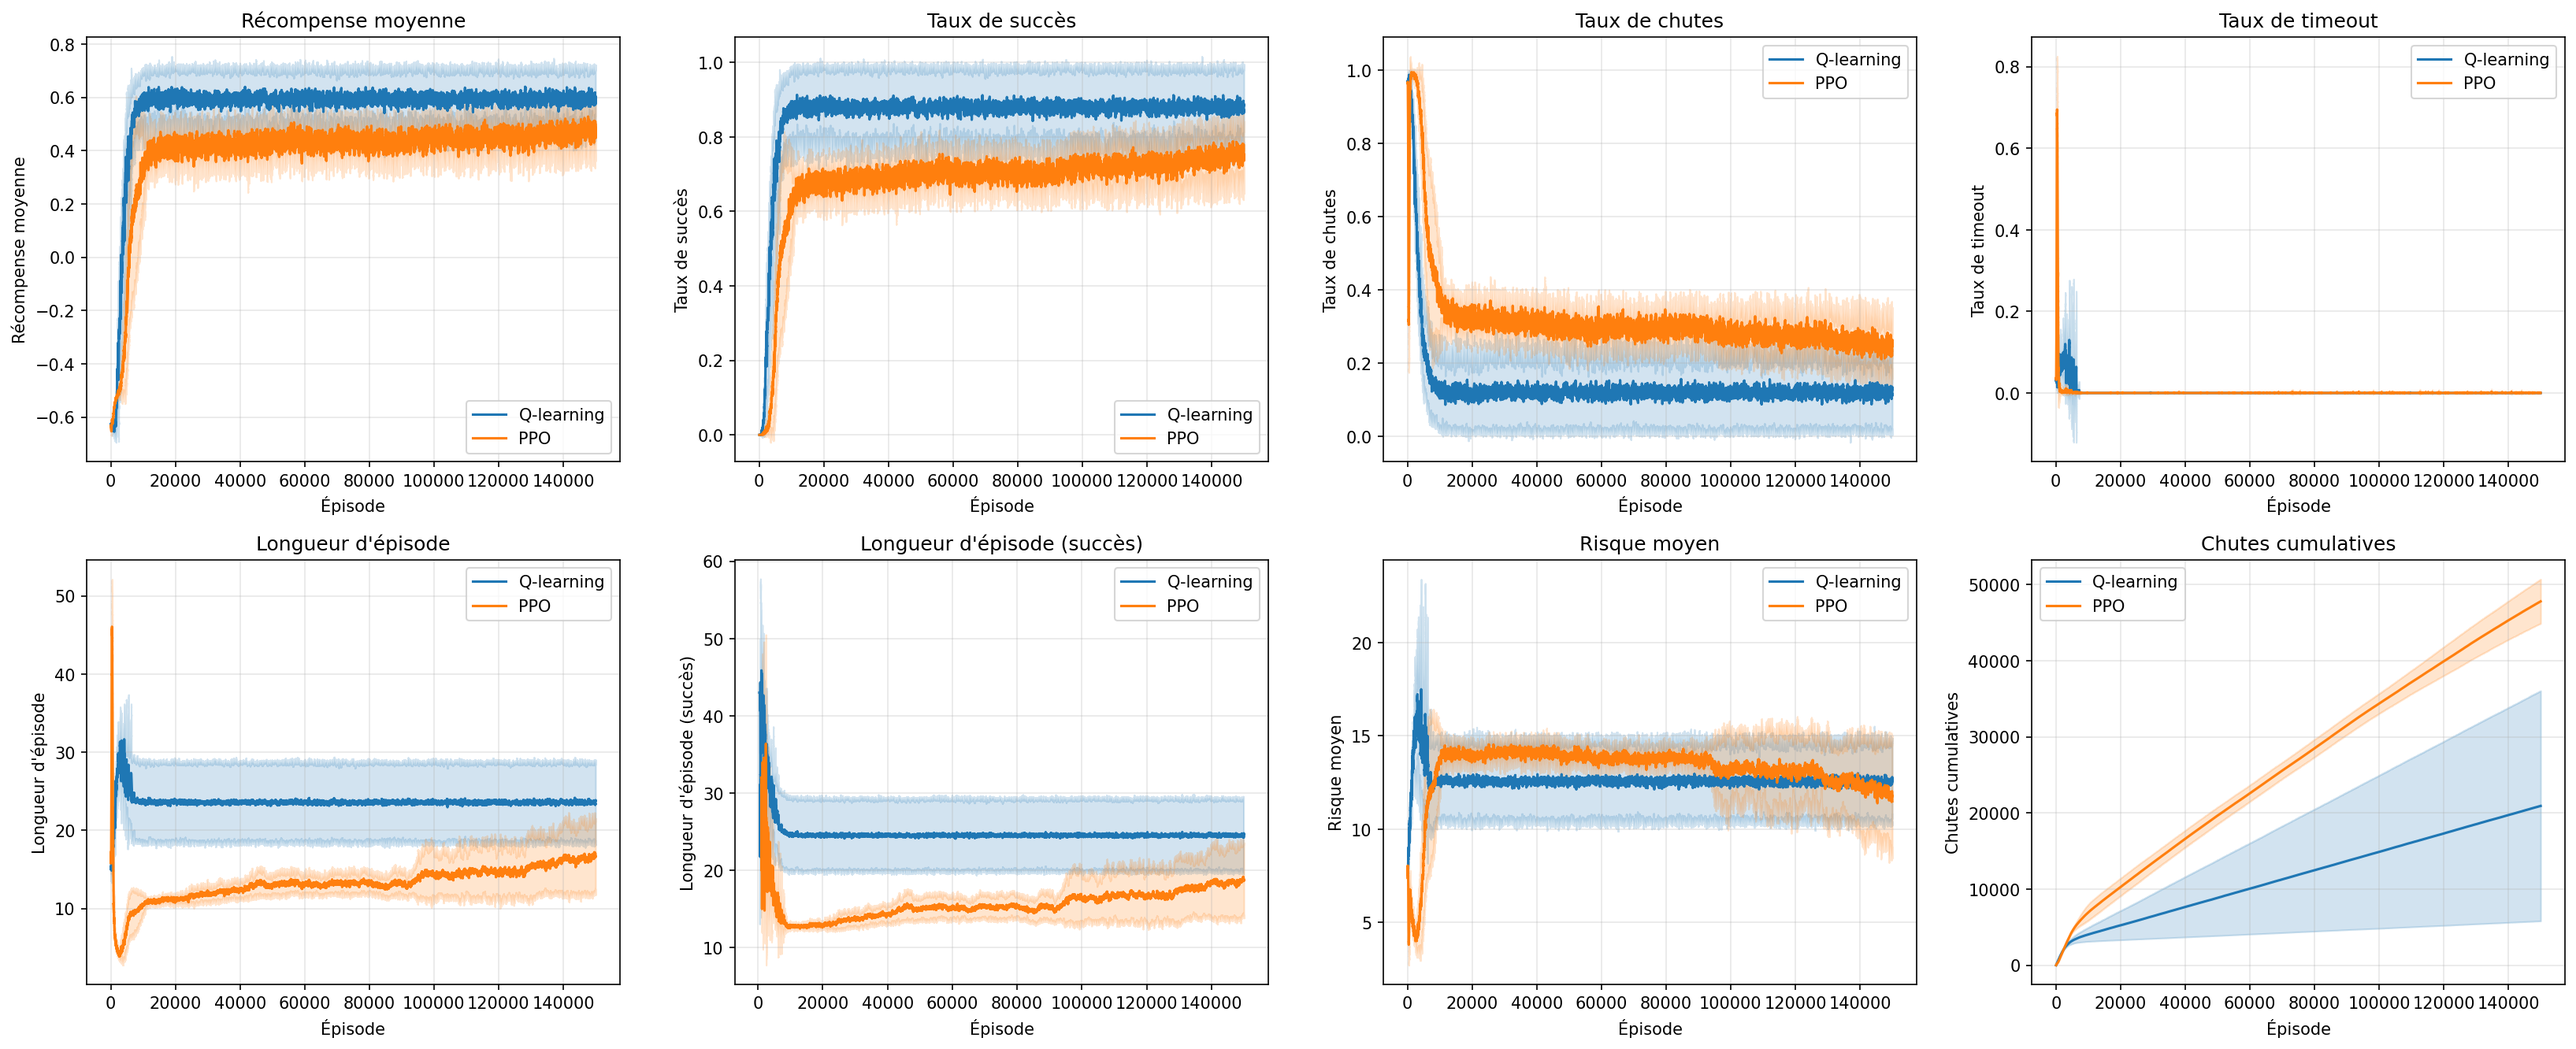
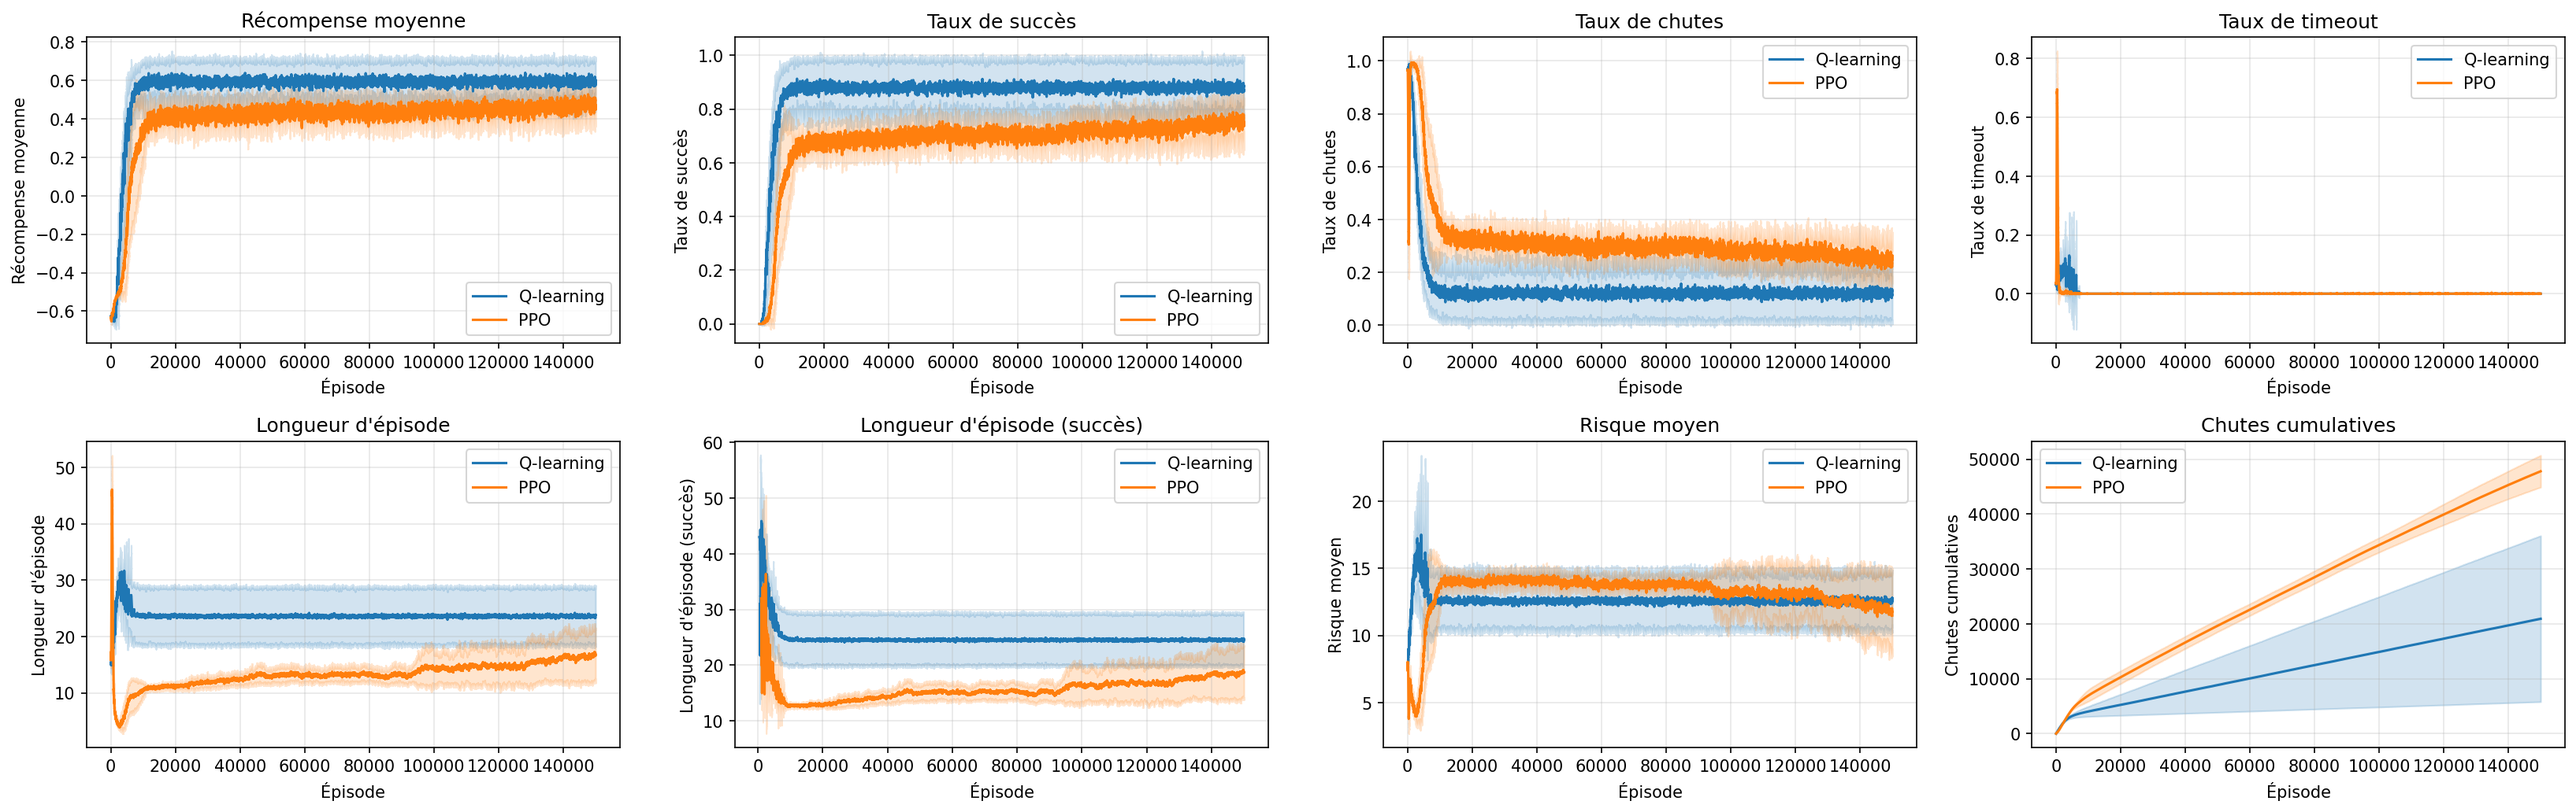
update train plot generation: generate a single figure

diff --git a/generate_train_plots.py b/generate_train_plots.py
@@ -49,13 +49,9 @@ ENVS_CONNUS = {
 #                          False -> utiliser x_ma avec moyenne mobile
 METRIQUES = [
     ("Récompense moyenne",         "reward_mean",               "episode_rewards",              False),
-    ("Taux de succès",             "success_rate",              "episode_successes",             False),
     ("Taux de chutes",             "fall_rate",                 "episode_falls",                 False),
-    ("Taux de timeout",            "timeout_rate",              "episode_timeouts",              False),
-    ("Longueur d'épisode",         "length_mean",               "episode_lengths",               False),
     ("Longueur d'épisode (succès)","length_given_success_mean", "episode_lengths_given_success", False),
     ("Risque moyen",               "risk_mean",                 "episode_risks",                 False),
-    ("Chutes cumulatives",         "cum_falls",                 "cum_falls",                     True),
 ]
 
 
@@ -213,28 +209,48 @@ def main():
         print("Aucun dossier valide trouvé. Vérifiez la liste DOSSIERS.")
         return
 
-    # Générer une figure par environnement avec un grid de métriques (2 lignes x 4 colonnes)
-    for nom_env, dossiers_env in groupes_env.items():
-        print(f"\nEnvironnement : {ENVS_CONNUS[nom_env]} ({len(dossiers_env)} algorithme(s))")
-        fig, axes = plt.subplots(2, 4, figsize=(22, 9))
-        axes = axes.flatten()  # Flatten to 1D array for easier iteration
+    # Créer une figure avec tous les métriques et environnements
+    num_metrics = len(METRIQUES)
+    num_envs = len(groupes_env)
+    height = max(4 + num_metrics * 2, 10)  # Hauteur minimale de 10, ajouter 2 par métrique
+    fig, axes = plt.subplots(num_metrics, num_envs, figsize=(6 * num_envs, height))
+    
+    # Gérer le cas où il y a seulement 1 métrique ou 1 environnement (les axes pourraient ne pas être 2D)
+    if num_metrics == 1 or num_envs == 1:
+        axes = axes.reshape(num_metrics, num_envs)
 
-        for idx, (label, cle_averaged, cle_callback, use_x_raw) in enumerate(METRIQUES):
+    print(f"Génération d'une figure avec {num_metrics} métriques et {num_envs} environnement(s)")
+
+    # Itérer sur les métriques (lignes) et environnements (colonnes)
+    for metric_idx, (label, cle_averaged, cle_callback, use_x_raw) in enumerate(METRIQUES):
+        for env_idx, (nom_env, dossiers_env) in enumerate(groupes_env.items()):
             try:
-                ax = axes[idx]
+                ax = axes[metric_idx, env_idx]
                 tracer_metrique(
                     ax, label, cle_averaged, cle_callback, use_x_raw, dossiers_env
                 )
-                print(f"  Métrique {idx+1}/8 : {label} - OK")
+                # Définir le titre de colonne uniquement pour la première ligne
+                if metric_idx == 0:
+                    ax.set_title(f"{ENVS_CONNUS[nom_env]}", fontsize=12, fontweight="bold")
+                else:
+                    ax.set_title("")
+                
+                # Définir l'étiquette de ligne uniquement pour la première colonne
+                if env_idx == 0:
+                    ax.set_ylabel(label, fontsize=11, fontweight="bold")
+                else:
+                    ax.set_ylabel("")
+                
+                print(f"  [{metric_idx+1}/{num_metrics}][{env_idx+1}/{num_envs}] {label} - {nom_env} - OK")
             except Exception as e:
                 print(f"  [ERREUR] {label} - {nom_env} : {e}")
 
-        fig.tight_layout()
-        nom_fichier = f"{nom_env}.png"
-        chemin_sortie = os.path.join(FIGURES_DIR, nom_fichier)
-        fig.savefig(chemin_sortie, dpi=150, bbox_inches="tight")
-        plt.close(fig)
-        print(f"  Sauvegardé : {chemin_sortie}")
+    fig.tight_layout()
+    nom_fichier = "all_metrics_all_environments.png"
+    chemin_sortie = os.path.join(FIGURES_DIR, nom_fichier)
+    fig.savefig(chemin_sortie, dpi=150, bbox_inches="tight")
+    plt.close(fig)
+    print(f"\nSauvegardé : {chemin_sortie}")
 
 
 if __name__ == "__main__":
